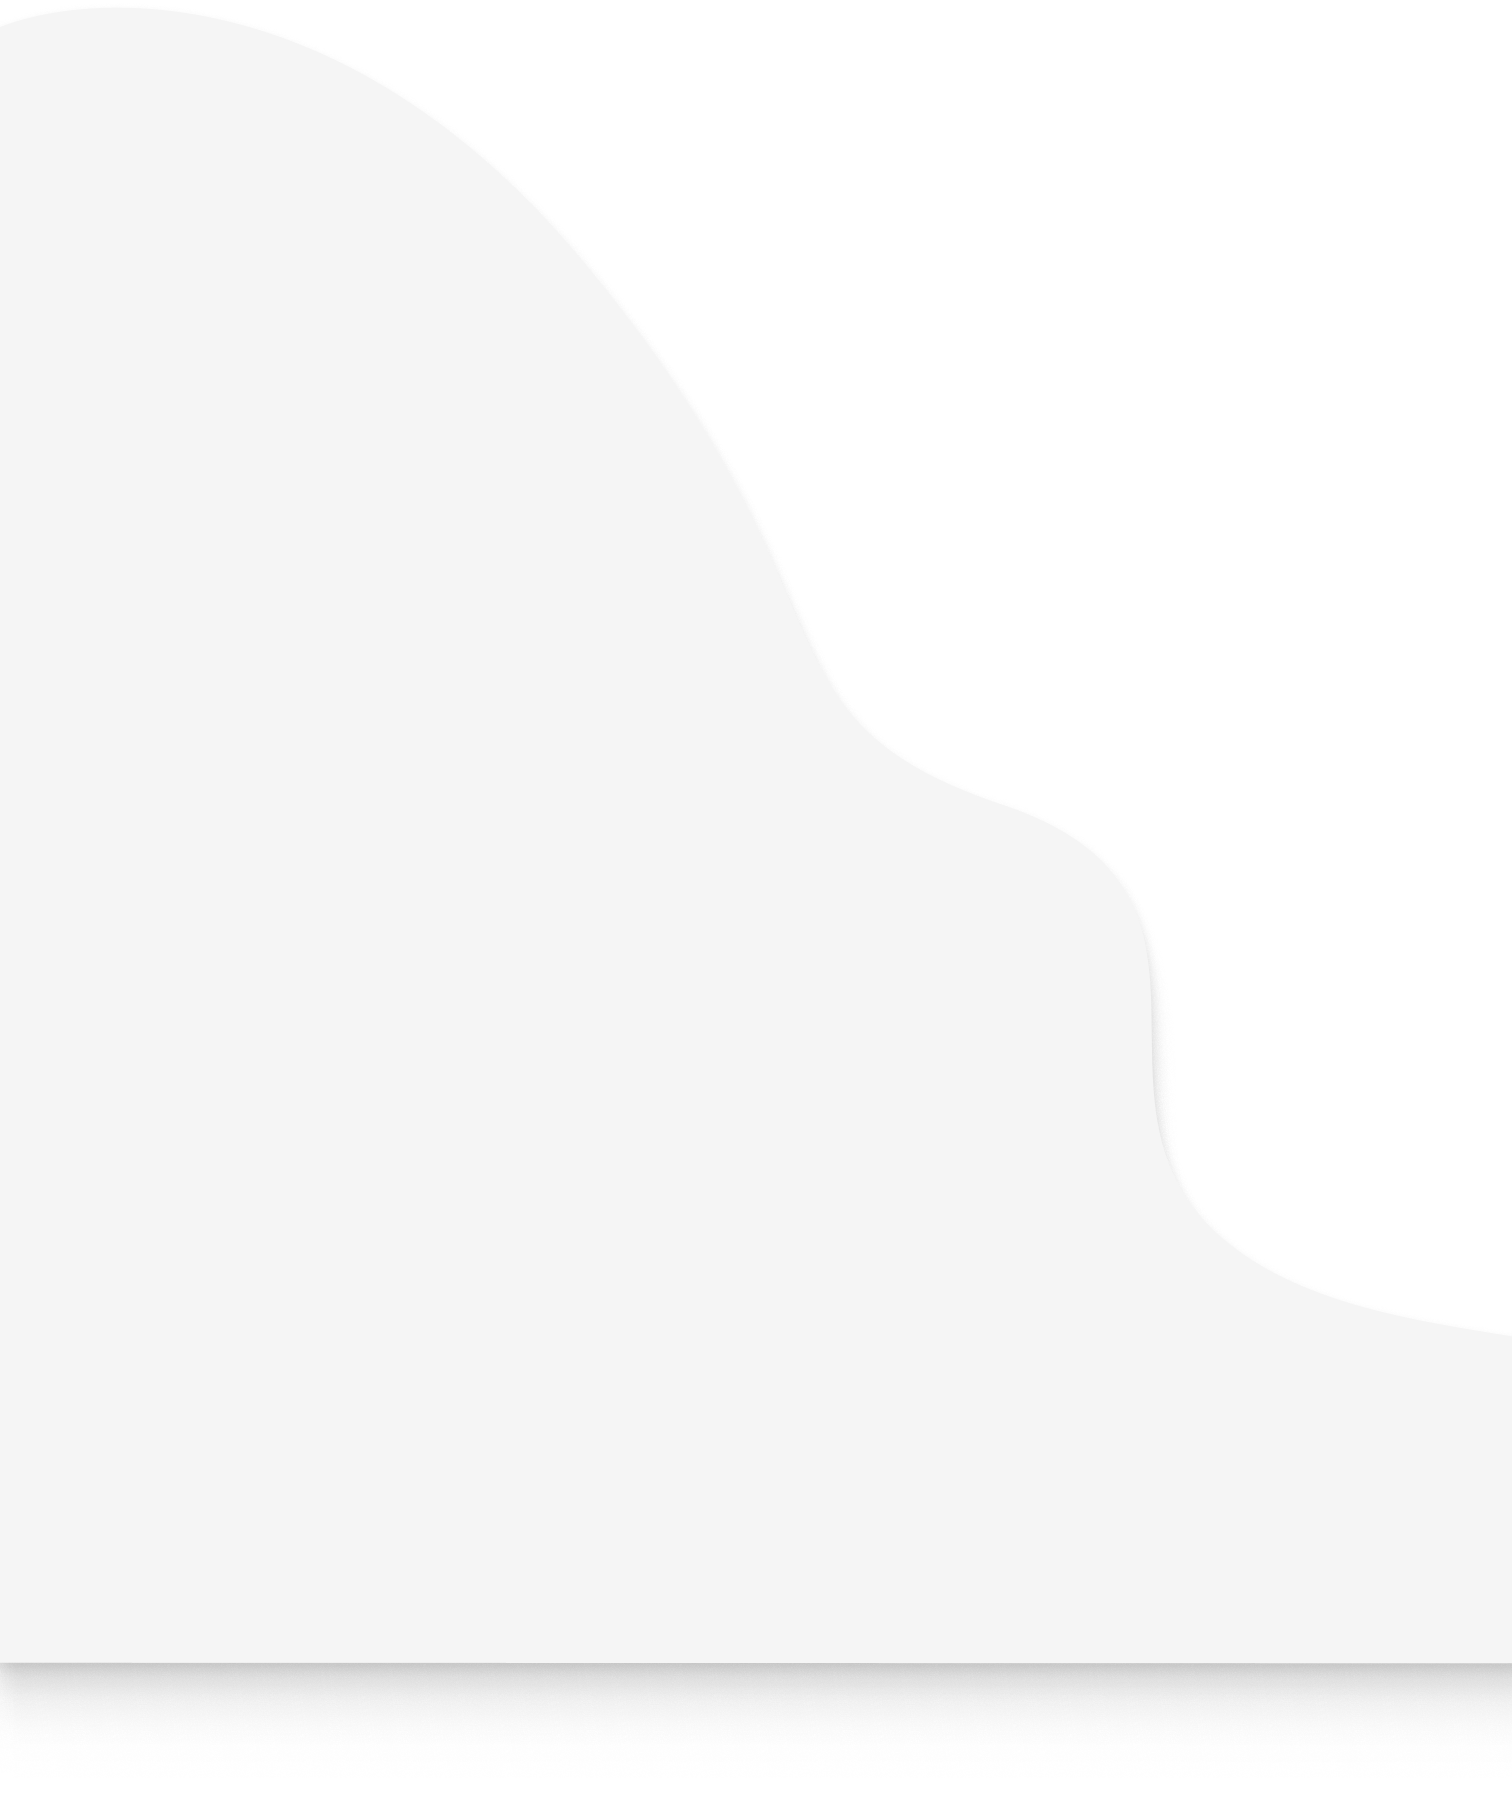
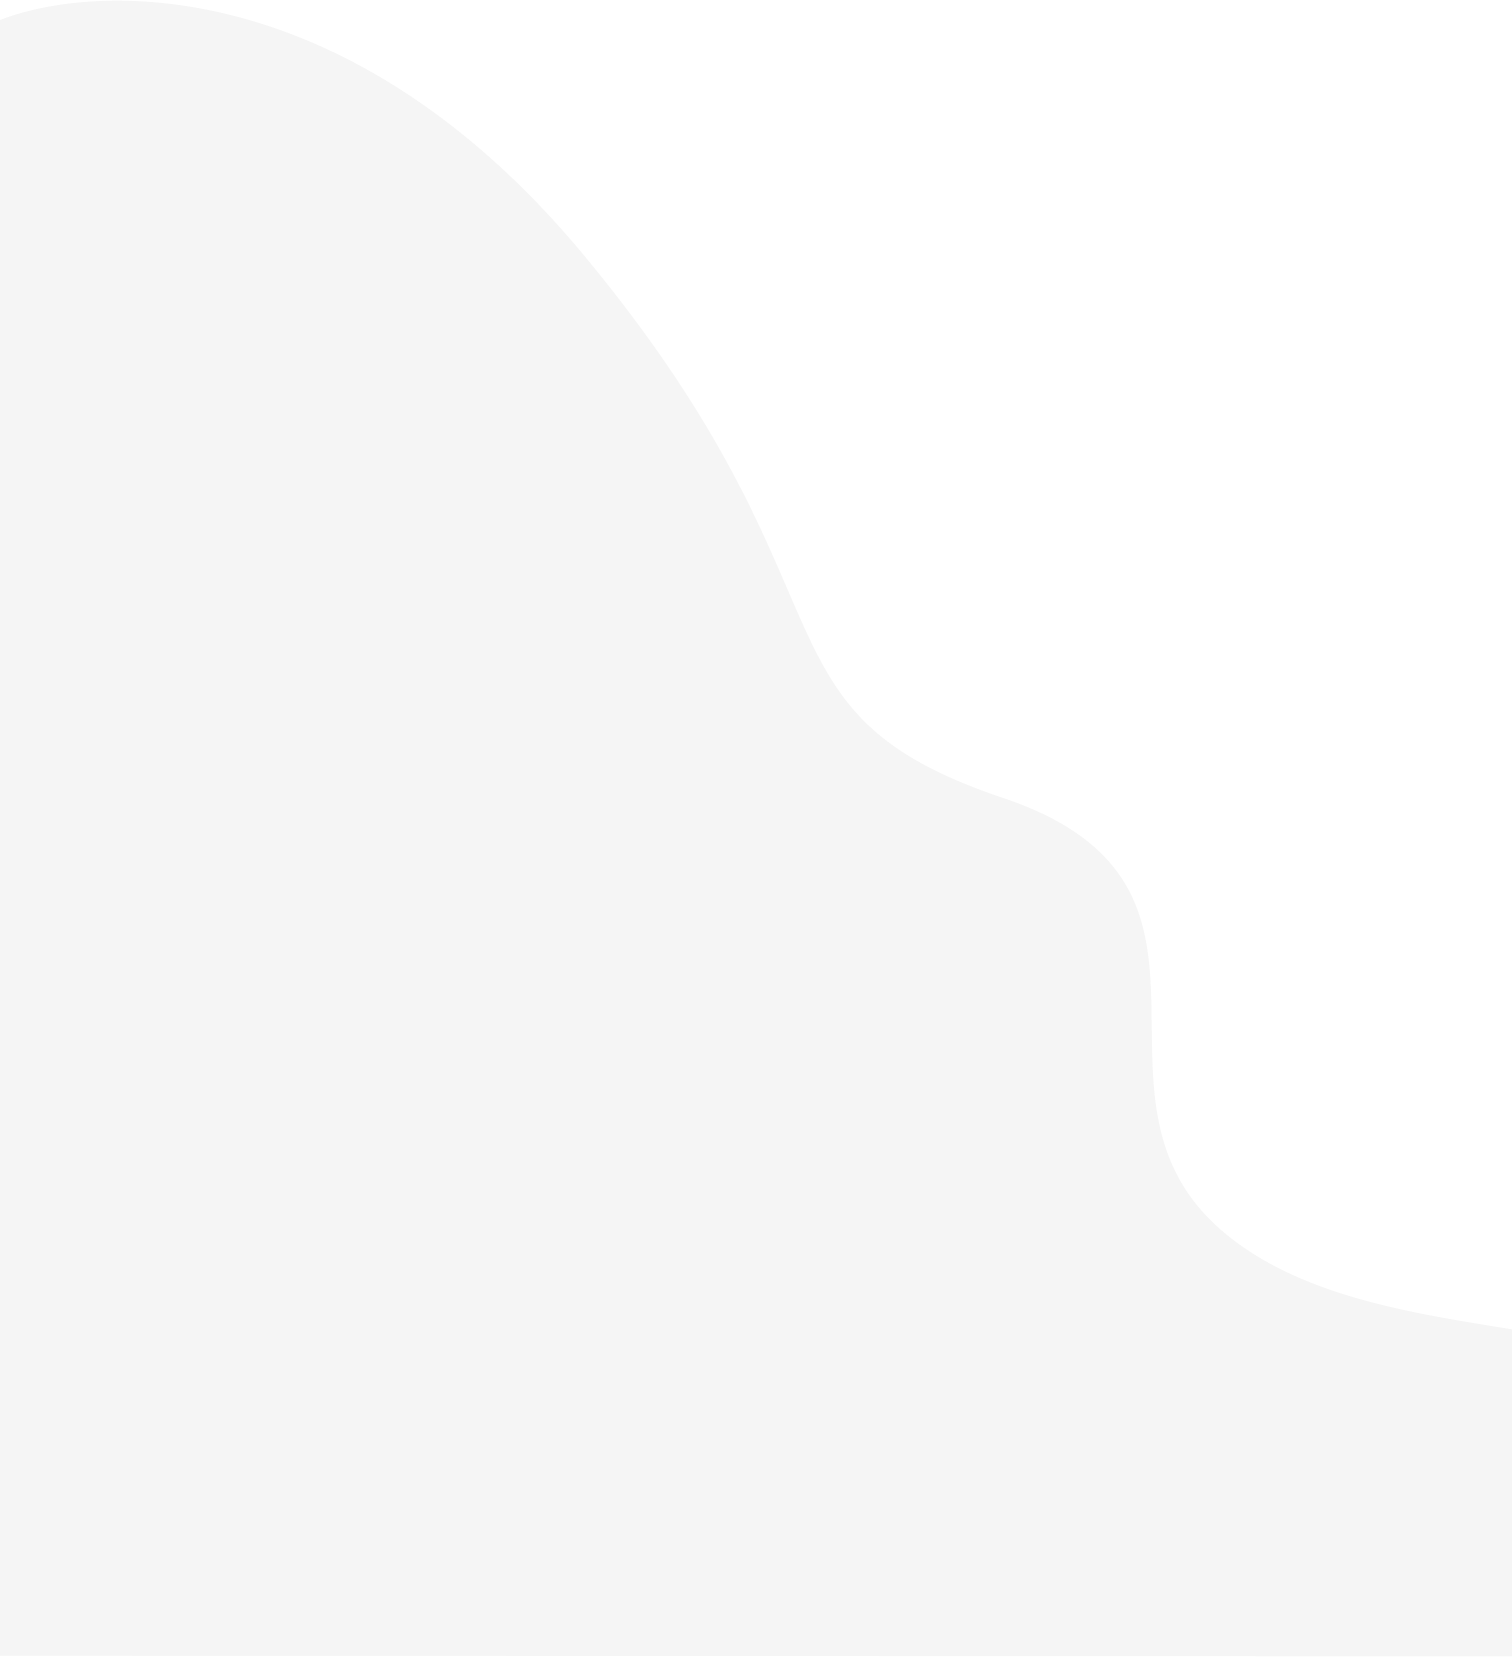
Atd 82 mobile fix join us roles list overlapping (#71)
* checkpoint on work

* feat: sizing

* feat: sizing

Changed region(s): [[0.0, 0.9234, 1.0, 0.9541]]

diff --git a/src/app/pages/join-us-page/join-us-page.component.scss b/src/app/pages/join-us-page/join-us-page.component.scss
@@ -9,82 +9,76 @@
   position: relative;
   overflow: hidden;
   width: 100%;
-}
-
-.main-background {
-  width: 100%;
-  margin-top: -100px;
-  display: block;
-
-  @include respond-to('tablet') {
-    margin-top: 0px;
-  }
   
-  @include respond-to('mobile') {
-    margin-top: 50px;
-  }
+  /* Main background image */
+  background-image: url('/backgrounds/join-us-main-background.png');
+  background-size: cover;
+  background-repeat: no-repeat;
+  background-position: top;
+
+  min-height: 100vh; /* Ensure adequate height for content */
 }
 
 .roles-section {
-  position: absolute;
-  bottom: 0;
-  left: 0;
+  position: relative;
   width: 100%;
   z-index: 1;
-  margin-bottom: -250px; /* Match the margin of roles-background */
+  margin-top: 80vh;
+  
+  /* Background image properties to ensure full vertical visibility */
+  background-image: url('/backgrounds/join-us-roles-background.png');
+  background-size: 100% auto; /* Full width, height scales to maintain aspect ratio */
+  background-repeat: no-repeat;
+  background-position: top; /* Align to top to prevent cropping */
+  aspect-ratio: 1512 / 1657; /* Adjust this ratio based on your actual image dimensions */
+  width: 100%;
   
   @include respond-to('tablet') {
-    margin-bottom: -180px;
+    margin-top: 40px;
+    width: 200%;
   }
   
   @include respond-to('mobile') {
-    margin-bottom: -120px;
+    margin-top: 30px;
+    width: 400%;
   }
 }
 
-.roles-background {
-  display: block;
-  width: 100%;
-  z-index: 1;
-}
-
 .header-container {
-  position: absolute;
-  top: 30px;
-  left: 100px;
+  position: relative;
+  margin-top: 100px;
+  margin-left: 100px;
   z-index: 2;
   width: 40%;
   
   @include respond-to('tablet') {
-    left: 50%;
+    margin-left: auto;
+    margin-right: auto;
     width: 80%;
-    transform: translateX(-50%); /* Center horizontally on mobile */
     background: radial-gradient(ellipse, rgba(0, 0, 0, 1) 30%, rgba(0, 0, 0, 0) 70%);
   }
   
   @include respond-to('mobile') {
-    left: 50%;
+    margin-left: auto;
+    margin-right: auto;
     width: 80%;
-    transform: translateX(-50%); /* Center horizontally on mobile */
     background: radial-gradient(ellipse, rgba(0, 0, 0, 1) 50%, rgba(0, 0, 0, 0) 70%);
   }
 }
 
 .roles-container {
   position: absolute;
-  top: 100px; /* This aligns with the top of roles-background */
+  top: 100px; /* Position relative to roles-section */
   left: 100px;
   z-index: 2;
-  /* Since roles-background is now position:relative and the direct parent of this element,
-     top:0 (and any added padding) will place it at the exact top of the roles-background */
   
   @include respond-to('tablet') {
-    top: 200px;
+    top: 50px; /* Adjusted for relative positioning */
     left: 60px;
   }
   
   @include respond-to('mobile') {
-    top: 150px;
+    top: 60px; /* Adjusted for relative positioning */
     left: 30px;
   }
 }

diff --git a/src/app/components/open-roles-list/open-roles-list.component.scss b/src/app/components/open-roles-list/open-roles-list.component.scss
@@ -1,5 +1,6 @@
 @use "fonts" as *;
 @use "colors" as *;
+@use "breakpoints" as *;
 
 .container {
   width: fit-content;
@@ -17,6 +18,14 @@
   font-weight: $font-weight-bolder;
   font-size: $font-size-header-sm;
   color: $brand-color-primary;
+
+  @include respond-to('tablet') {
+    font-size: $font-size-header-sm;
+  }
+
+  @include respond-to('mobile') {
+    font-size: $font-size-header-sm;
+  }
 }
 
 .icon {
@@ -37,6 +46,14 @@
   color: $brand-color-black;
   position: relative;
   width: fit-content;
+
+  @include respond-to('tablet') {
+    font-size: $font-size-base-sm;
+  }
+
+  @include respond-to('mobile') {
+    font-size: $font-size-base-sm;
+  }
 }
 
 .open-role .role-link {
@@ -76,6 +93,14 @@
   display: flex;
   align-items: center;
   justify-content: center;
+
+  @include respond-to('tablet') {
+    font-size: $font-size-base;
+  }
+
+  @include respond-to('mobile') {
+    font-size: $font-size-base-sm;
+  }
 }
 
 .no-roles {
@@ -83,4 +108,12 @@
   font-weight: $font-weight-bold;
   font-size: $font-size-base;
   color: $brand-color-black;
+
+  @include respond-to('tablet') {
+    font-size: $font-size-base-sm;
+  }
+
+  @include respond-to('mobile') {
+    font-size: $font-size-sm;
+  }
 }

diff --git a/src/app/pages/join-us-page/join-us-page.component.html b/src/app/pages/join-us-page/join-us-page.component.html
@@ -1,15 +1,13 @@
 <div class="join-us-page">
   <div class="background-container">
-    <img src="backgrounds/join-us-main-background.png" alt="" class="main-background">
+    <div class="header-container">
+      <app-join-us-header></app-join-us-header>
+    </div>
+    
     <div class="roles-section">
-      <img src="backgrounds/join-us-roles-background.png" alt="" class="roles-background">
       <div class="roles-container">
         <app-open-roles-list></app-open-roles-list>
       </div>
     </div>
-  </div>
-  
-  <div class="header-container">
-    <app-join-us-header></app-join-us-header>
   </div>
 </div>

diff --git a/src/app/components/join-us-header/join-us-header.component.scss b/src/app/components/join-us-header/join-us-header.component.scss
@@ -33,7 +33,7 @@
     }
     
     @include respond-to('mobile') {
-        font-size: $font-size-xxs;
+        font-size: $font-size-xs;
         text-align: center; /* Center body text on mobile */
     }
 }
